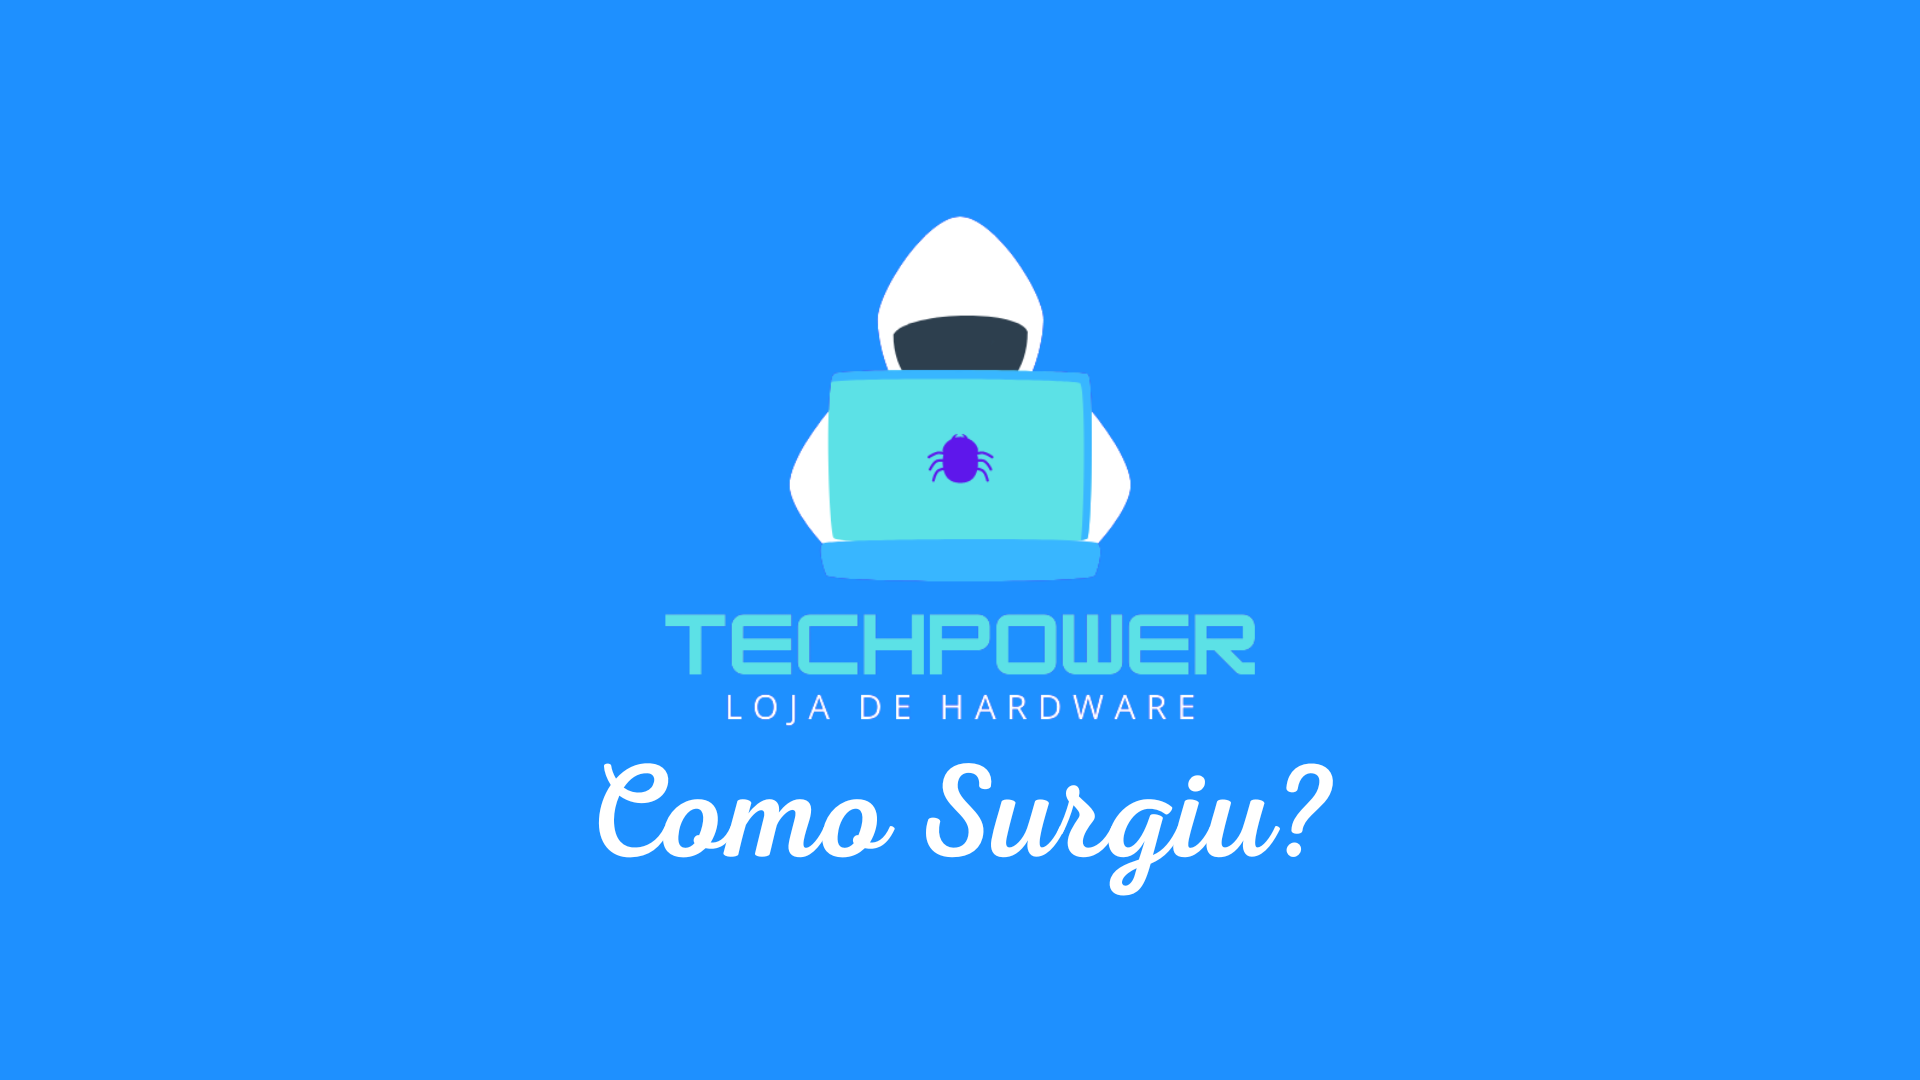
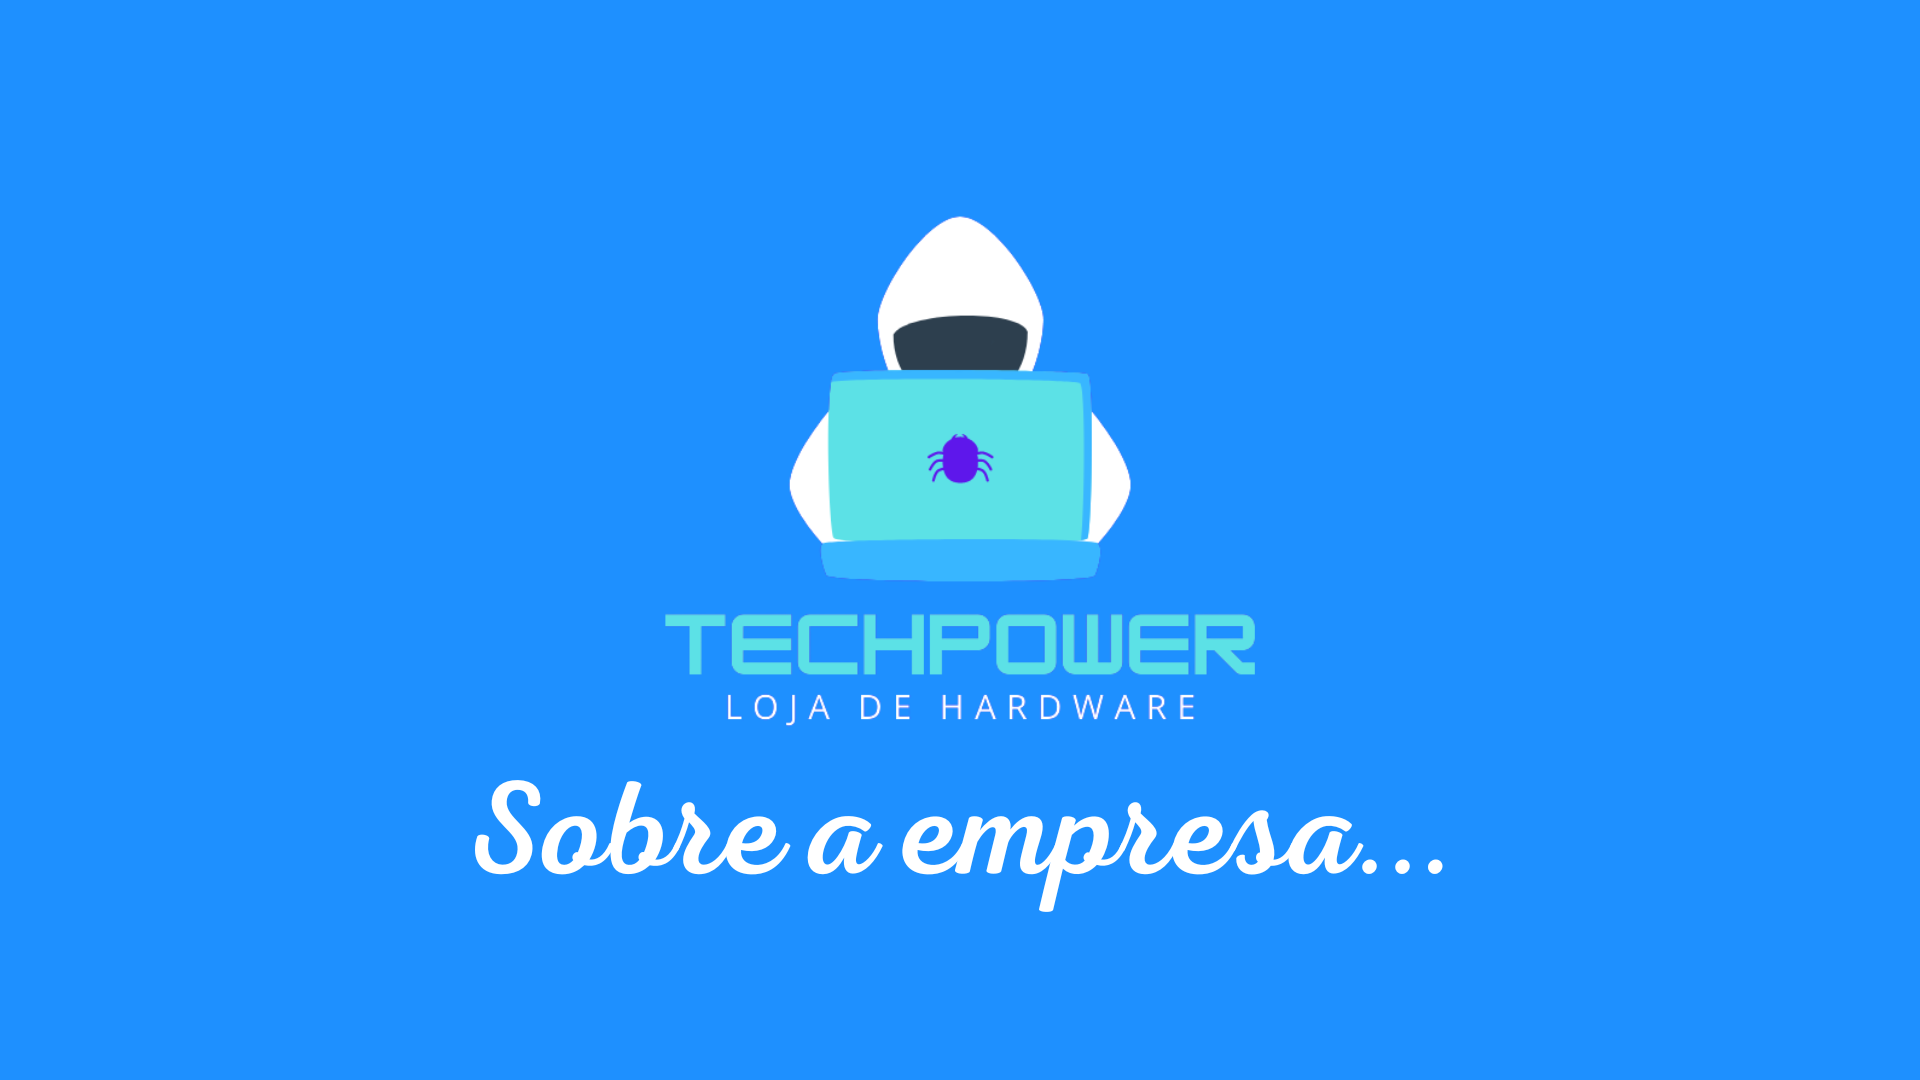
alterando imagem

Changed region(s): [[0.25, 0.7028, 0.75, 0.8556]]

diff --git a/View/home.php b/View/home.php
@@ -42,7 +42,7 @@
 
         <div class="icons">
             <div class="fas fa-search" id="search-btn"></div>
-            <div class="fas fa-shopping-cart" id="cart-btn"></div>
+            <!-- <div class="fas fa-shopping-cart" id="cart-btn"></div> -->
             <div class="fas fa-bars" id="menu-btn"></div>
         </div>
 
@@ -108,7 +108,7 @@
                 <img src="images/sobre.png" alt="">
             </div>
             <div class="content">
-                <h3>Como surgiu a empresa?</h3>
+                <h3>Sobre a empresa</h3>
                 <p>A empresa TechPower foi oficialmente inaugurada em 2022, o intuito sempre foi disponibilizar o melhor preço
                     em hardware para todos. Buscamos sempre estar a frente trazendo em primeira mão os melhores lançamentos do mercado.
                     Já são mais de 100 mil produtos vendidos por todo o país, e com ótimas avaliações do público geral.
@@ -123,42 +123,42 @@
             <div class="box">
                 <img src="images/mouse.png" alt="">
                 <h3>Mouse Gamer Redragon Cobra, Chroma RGB, Preto - M711 V2</h3>
-                <div class="price">R$116,99 <span>150,00</span></div>
+                <div class="price">R$116,99 <span>R$150,00</span></div>
                 <a href="#" class="btn">Adicionar ao carrinho</a>
             </div>
 
             <div class="box">
                 <img src="images/amd5600g.jpg" alt="">
                 <h3>Processador AMD Ryzen 5 5600G, 3.9GHz, 6 Núcleos, 12 Threads Vid. Integrado</h3>
-                <div class="price">R$1074,99 <span>2000,00</span></div>
+                <div class="price">R$1074,99 <span>R$2000,00</span></div>
                 <a href="#" class="btn">Adicionar ao carrinho</a>
             </div>
 
             <div class="box">
                 <img src="images/rtx2060.jpg" alt="">
                 <h3>Placa de Vídeo Zotac Gaming NVIDIA GeForce RTX 2060, 6GB, GDDR6</h3>
-                <div class="price">R$1499,99 <span>3000,00</span></div>
+                <div class="price">R$1499,99 <span>R$3000,00</span></div>
                 <a href="#" class="btn">Adicionar ao carrinho</a>
             </div>
 
             <div class="box">
                 <img src="images/teclado_kumara.jpg" alt="">
                 <h3>Teclado Mecânico Gamer Redragon Kumara, LED Vermelho, Switch Outemu Blue</h3>
-                <div class="price">R$199,99 <span>410.00</span></div>
+                <div class="price">R$199,99 <span>R$410.00</span></div>
                 <a href="#" class="btn">Adicionar ao carrinho</a>
             </div>
 
             <div class="box">
                 <img src="images/headsetHyperx.jpg" alt="">
                 <h3>Headset Gamer HyperX Cloud Stinger, Drivers 50mm, Múltiplas Plataformas, P2 e P3</h3>
-                <div class="price">R$199,99 <span>385,00</span></div>
+                <div class="price">R$199,99 <span>R$385,00</span></div>
                 <a href="#" class="btn">Adicionar ao carrinho</a>
             </div>
 
             <div class="box">
                 <img src="images/placaAsus.jpg" alt="">
                 <h3>Placa-Mãe Asus TUF Gaming B450M-Pro II, AMD AM4, mATX, DDR4y</h3>
-                <div class="price">R$849,99 <span>1050,00</span></div>
+                <div class="price">R$849,99 <span>R$1050,00</span></div>
                 <a href="#" class="btn">Adicionar ao carrinho</a>
             </div>
 
@@ -279,7 +279,7 @@
                     <i class="fas fa-star"></i>
                     <i class="fas fa-star"></i>
                     <i class="fas fa-star"></i>
-                    <i class="fas fa-star-half-alt"></i>
+                    <i class="fas fa-star"></i>
                 </div>
             </div>
 
@@ -313,11 +313,10 @@
 
     <section class="footer">
         <div class="share">
-            <a href="#" class="fab fa-facebook-f"></a>
-            <a href="#" class="fab fa-twitter"></a>
-            <a href="#" class="fab fa-instagram"></a>
-            <a href="#" class="fab fa-linkedin"></a>
-            <a href="#" class="fab fa-pinterest"></a>
+            <a href="https://www.facebook.com/mateusgabriel.moreno" class="fab fa-facebook-f"></a>
+            <a href="https://twitter.com/mateus_moreno04" class="fab fa-twitter"></a>
+            <a href="https://www.instagram.com/mateus_moreno04/" class="fab fa-instagram"></a>
+            <a href="https://www.linkedin.com/in/mateus-gabriel-moreno-585344240/" class="fab fa-linkedin"></a>
         </div>
 
         <div class="credit">TechPower© @2022 // Todos os direitos reservados. Criado por <span>Mateus Gabriel Moreno.</span></div>
